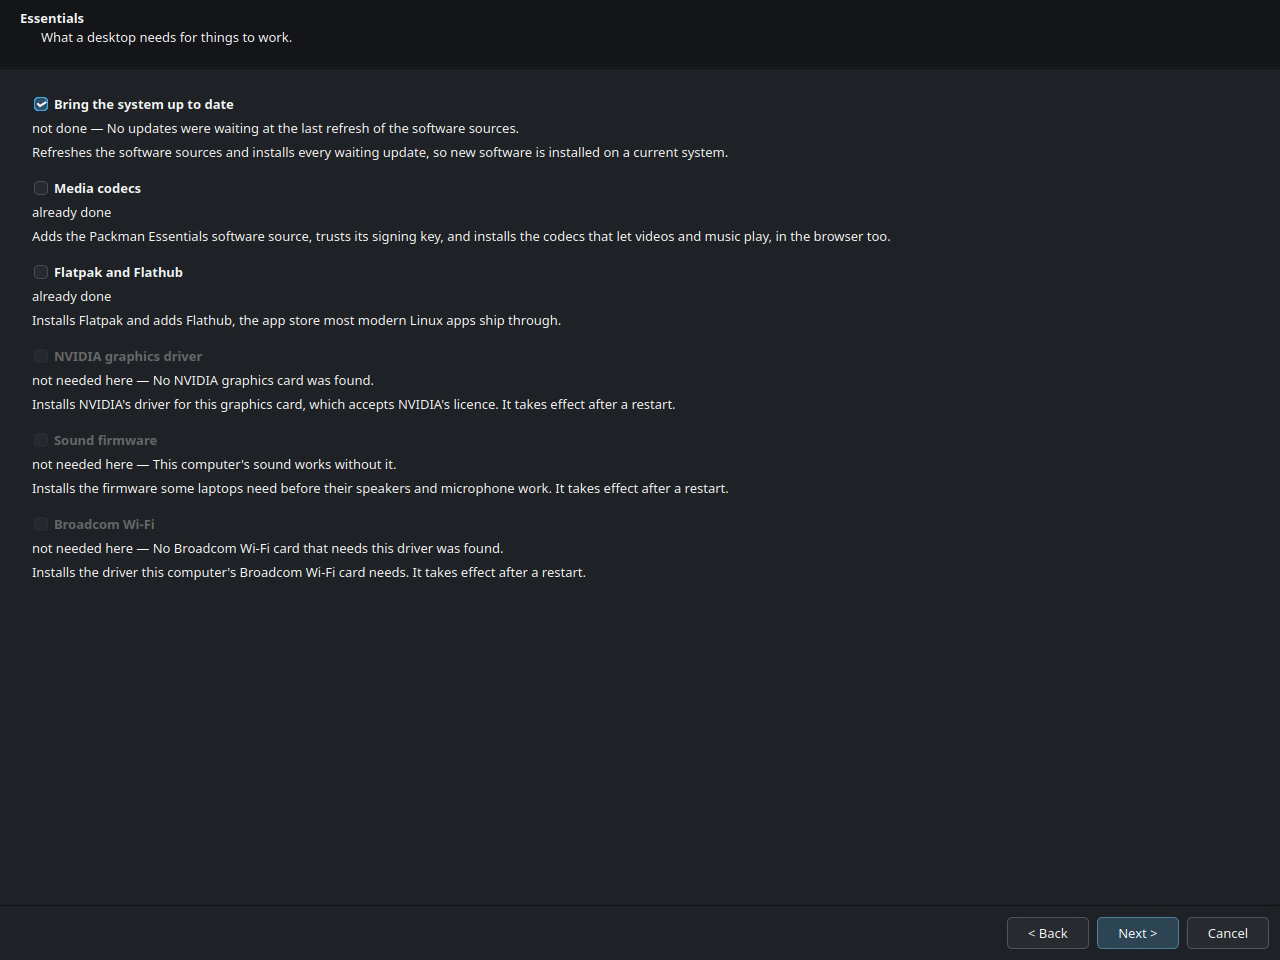
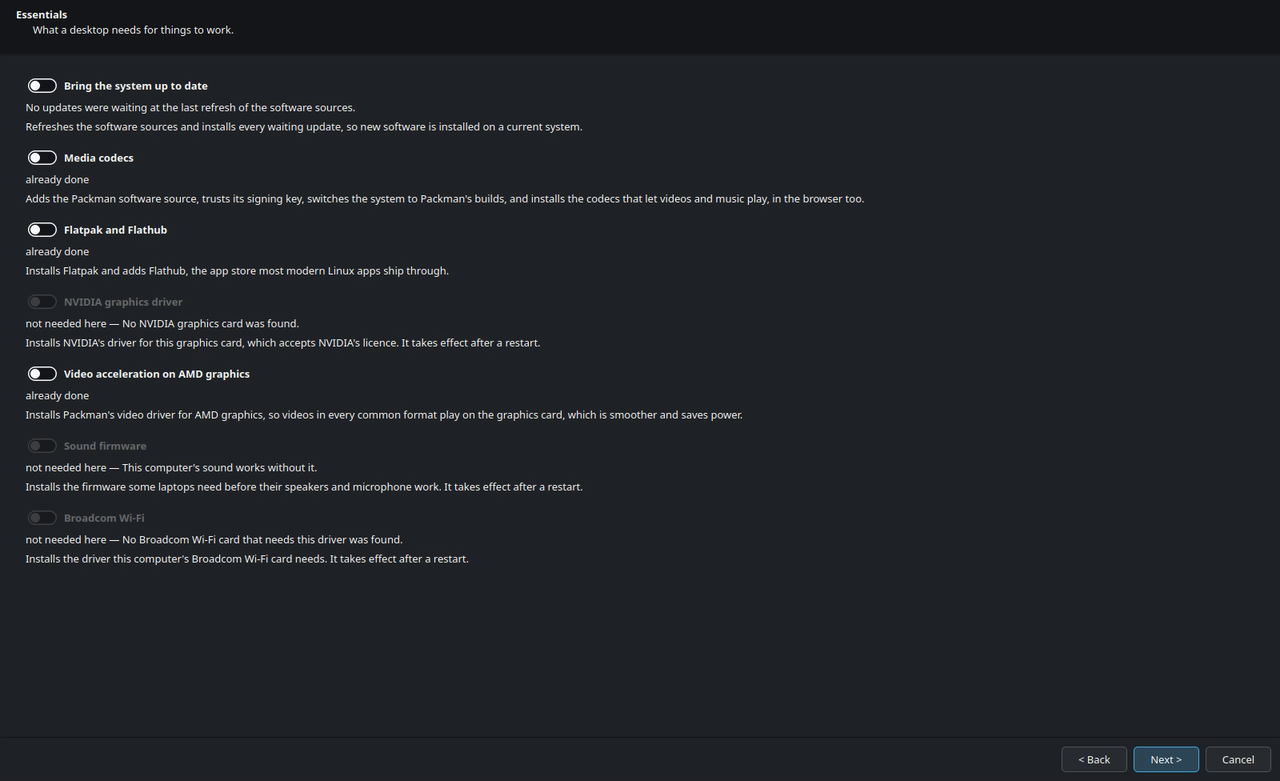
content: Groundwork's new release, looking after the computer once set up
The About page gains a section on what the release adds: staying
responsive when memory runs out, a safe keyboard restart, a quicker
boot and smoother day-to-day settings. The blurb says the same in one
sentence. The Essentials screenshot is replaced with the new dark-theme
one, resized to the gallery's 1280 width, and its alt text redone.
"First public release" is no longer true, so it now says beta.

write-doc: short path; claims taken from the Groundwork session's
handoff note and the v0.3.0 release; links checked by local-CI.sh's
build (both internal pages exist).
CLAUDE.md rule 14: nothing is built from or under these files, no gate.

Changed region(s): [[0.0, 0.0922, 0.6875, 0.7375], [0.8125, 0.9526, 1.0, 1.0], [0.0, 0.0, 0.2188, 0.0615]]

diff --git a/src/about/groundwork.md b/src/about/groundwork.md
@@ -11,10 +11,32 @@ It checks the computer first, then offers choices level by level:
 - **Extras:** popular apps, gaming, developer tools, a backup tool and fonts.
 
 Nothing changes until you press Apply, and it asks for your password once.
+Each choice is an on/off switch. Colour themes, dark and high contrast among
+them, follow the desktop's light or dark unless you choose one.
+
+## Looking after the computer afterwards
+
+Groundwork also keeps a computer running well once it is set up:
+
+- **It stays responsive when memory runs out.** The most memory-hungry app is
+  closed before the desktop freezes. A small recorder notes what was using
+  memory, so the cause of a freeze can be found afterwards.
+- **An emergency keyboard escape.** A frozen computer can be restarted safely
+  from the keyboard instead of the power button.
+- **It starts sooner.** The boot menu waits 3 seconds.
+- **Smoother day to day.** Less eager swapping, a smoother setting for
+  spinning hard drives, a 1 GB cap on the system log, and a calmer wake from
+  hibernation.
+
+It can also set up virtual machines, game controllers and GameMode, video
+acceleration on AMD graphics, NumLock on at login,
+[Ants Terminal](/p/ants-terminal.html) as the terminal, and
+[OneUp](/p/oneup.html), a one-window update app. Media codecs come from Packman's full repository, so
+videos and music play everywhere, in the browser too.
 
 ## Where it stands
 
-This is its first public release. It comes as a single AppImage file that runs
+It is still in beta. It comes as a single AppImage file that runs
 without installing anything, on Tumbleweed and Leap 16. It speaks English and
 fourteen other languages, each marked as a draft until a fluent speaker has
 checked it.

diff --git a/CHANGELOG.md b/CHANGELOG.md
@@ -29,6 +29,8 @@ so dated sections stand in for versions. Planned work lives in
 
 ### Changed
 
+- **Groundwork's page describes its new release: it now looks after the computer once it is set up, and shows a fresh Essentials screenshot in the dark theme**
+
 - **Rusty PSN's page credits RainbowCookie32's work plainly, lists what this copy adds, its logo and four screenshots; it now says it builds on Linux only so far**
 
 - **Pressless's privacy page and project page: turning off visitor numbers now deletes the Google key and the saved figures from your computer**
